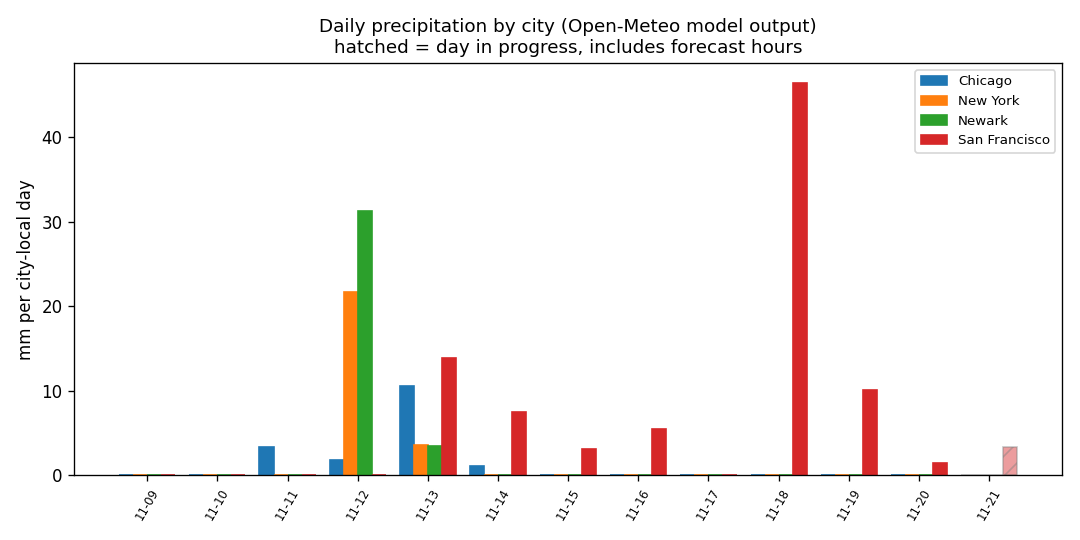
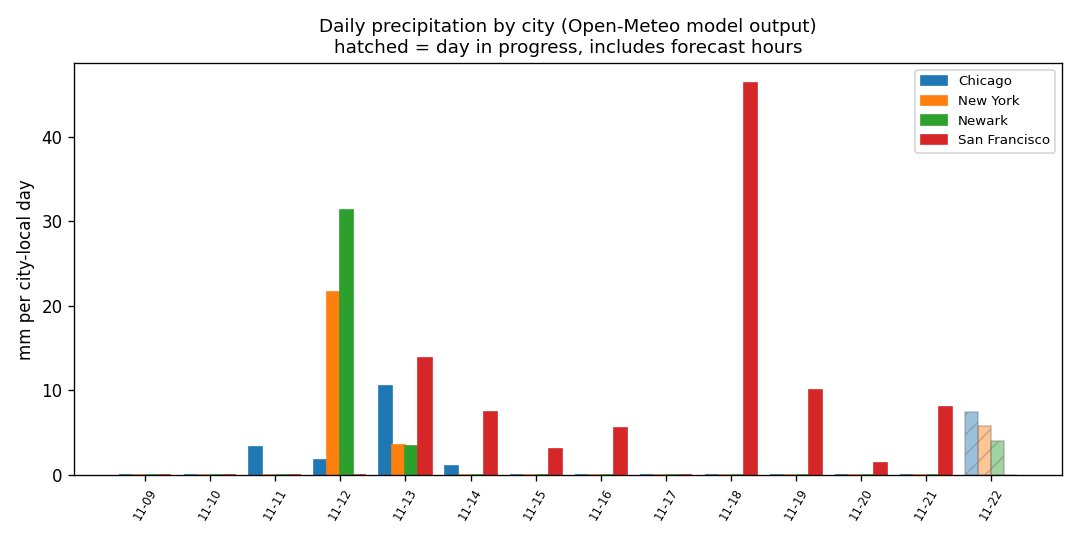
Tolerate per-city fetch failures (fetch_all) and report them as quality issues; refresh data

diff --git a/scripts/daily_update.py b/scripts/daily_update.py
@@ -17,11 +17,11 @@ REPORTS = ROOT / "reports"
 
 
 def main() -> int:
-    rows = []
+    rows, fetch_failures = ingest.fetch_all(config.CITIES)
     for city in config.CITIES:
-        city_rows = ingest.fetch_city_hourly(city)
-        print(f"{city.name}: fetched {len(city_rows)} hourly rows")
-        rows.extend(city_rows)
+        n = sum(1 for r in rows if r["city"] == city.name)
+        if n:
+            print(f"{city.name}: fetched {n} hourly rows")
 
     (ROOT / "data").mkdir(exist_ok=True)
     REPORTS.mkdir(exist_ok=True)
@@ -34,7 +34,7 @@ def main() -> int:
     # Freshness is evaluated right after this run's own ingest, so the overnight
     # gap between rounds (3pm to 7am) cannot trip it: each run loads new hours stamped
     # now. It fails only if a run loads nothing new for over 6h (a stalled upstream).
-    issues = (quality.run_all(con) + quality.check_all_cities_present(con)
+    issues = (fetch_failures + quality.run_all(con) + quality.check_all_cities_present(con)
               + quality.check_fresh_fetch(con))
     for city, hr in sorted(quality.latest_available_hour(con).items()):
         print(f"latest available hour {city}: {hr}")

diff --git a/tests/test_ingest.py b/tests/test_ingest.py
@@ -101,3 +101,21 @@ def test_fetch_gives_up_after_max_attempts():
     with pytest.raises(ingest.IngestError):
         ingest.fetch_city_hourly(NEWARK, session=session, max_attempts=3, backoff_s=0)
     assert session.n == 3
+
+
+def test_fetch_all_keeps_good_cities_and_reports_failures():
+    from types import SimpleNamespace as NS
+    from weatherwh.ingest import IngestError, fetch_all
+    cities = [NS(name="A"), NS(name="B"), NS(name="C")]
+    def fake(city):
+        if city.name == "B":
+            raise IngestError("Open-Meteo unreachable for B after 3 attempts: timeout")
+        return [{"city": city.name, "hour": 1}]
+    rows, failures = fetch_all(cities, fetch=fake)
+    assert [r["city"] for r in rows] == ["A", "C"]
+    assert len(failures) == 1 and failures[0].startswith("fetch failed for B")
+    assert fetch_all([], fetch=fake) == ([], [])
+    # non-ingest bugs are not swallowed
+    import pytest
+    with pytest.raises(KeyError):
+        fetch_all(cities, fetch=lambda c: (_ for _ in ()).throw(KeyError("bug")))

diff --git a/src/weatherwh/ingest.py b/src/weatherwh/ingest.py
@@ -67,3 +67,20 @@ def flatten_payload(city: City, payload: dict, ingested_at: dt.datetime) -> list
             row[var] = values[i] if i < len(values) else None
         rows.append(row)
     return rows
+
+
+def fetch_all(cities, fetch=None) -> tuple[list[dict], list[str]]:
+    """Fetch every city, tolerating per-city failures. Returns (rows, failures):
+    one unreachable city must not discard the others' fresh data. Failures are
+    returned as messages so the caller can fail the quality gate; the failed
+    city logs no successful fetch, so source-fetch freshness keeps flagging it
+    once its last good fetch is too old."""
+    fetch = fetch or fetch_city_hourly
+    rows: list[dict] = []
+    failures: list[str] = []
+    for city in cities:
+        try:
+            rows.extend(fetch(city))
+        except IngestError as exc:
+            failures.append(f"fetch failed for {city.name}: {exc}")
+    return rows, failures

diff --git a/reports/dashboard.md b/reports/dashboard.md
@@ -1,13 +1,17 @@
 # Weather Warehouse - daily dashboard
 
-Generated 2026-11-21 20:04 UTC.
+Generated 2026-11-22 12:07 UTC.
 
 | city | day | avg_temp_c | min_temp_c | max_temp_c | total_precip_mm | max_wind_kmh | hours_observed |
 | --- | --- | --- | --- | --- | --- | --- | --- |
-| Chicago | 2026-11-21 | 12.53 | 7.2 | 20.2 | 0.0 | 16.0 | 24 |
-| New York | 2026-11-21 | 12.28 | 8.1 | 19.0 | 0.0 | 12.1 | 24 |
-| Newark | 2026-11-21 | 11.77 | 6.7 | 18.8 | 0.0 | 12.8 | 24 |
-| San Francisco | 2026-11-21 | 9.06 | 6.4 | 11.4 | 3.3 | 19.1 | 24 |
+| Chicago | 2026-11-22 | 8.62 | 1.0 | 13.0 | 7.5 | 22.4 | 24 |
+| New York | 2026-11-22 | 13.37 | 12.2 | 15.6 | 5.8 | 16.1 | 24 |
+| Newark | 2026-11-22 | 13.09 | 11.3 | 15.6 | 4.0 | 12.8 | 24 |
+| San Francisco | 2026-11-22 | 10.12 | 8.0 | 12.3 | 0.0 | 9.9 | 24 |
+| Chicago | 2026-11-21 | 12.69 | 7.2 | 20.1 | 0.0 | 15.8 | 24 |
+| New York | 2026-11-21 | 12.79 | 8.1 | 19.0 | 0.0 | 10.5 | 24 |
+| Newark | 2026-11-21 | 12.23 | 6.7 | 19.2 | 0.0 | 13.0 | 24 |
+| San Francisco | 2026-11-21 | 9.53 | 6.4 | 12.1 | 8.0 | 14.3 | 24 |
 | Chicago | 2026-11-20 | 11.73 | 5.5 | 19.0 | 0.0 | 17.1 | 24 |
 | New York | 2026-11-20 | 13.37 | 7.3 | 21.3 | 0.0 | 9.5 | 24 |
 | Newark | 2026-11-20 | 12.92 | 5.6 | 21.7 | 0.0 | 11.2 | 24 |
@@ -30,10 +34,6 @@ Generated 2026-11-21 20:04 UTC.
 | San Francisco | 2026-11-16 | 11.94 | 9.1 | 14.8 | 5.5 | 9.2 | 24 |
 | Chicago | 2026-11-15 | 3.52 | -0.7 | 9.2 | 0.0 | 9.2 | 24 |
 | New York | 2026-11-15 | 6.52 | 3.6 | 10.8 | 0.0 | 19.9 | 24 |
-| Newark | 2026-11-15 | 6.48 | 3.8 | 10.4 | 0.0 | 22.1 | 24 |
-| San Francisco | 2026-11-15 | 12.95 | 11.3 | 15.1 | 3.1 | 14.4 | 24 |
-| Chicago | 2026-11-14 | 2.32 | -0.7 | 6.9 | 1.1 | 16.1 | 24 |
-| New York | 2026-11-14 | 4.66 | 3.0 | 6.8 | 0.0 | 20.5 | 24 |
 
 ## Heat / cold exposure (current window)
 
@@ -52,8 +52,9 @@ Completed days only: daily average temperature vs the city's other days (|z| >= 
 
 | city | day | avg temp C | z-score |
 | --- | --- | ---: | ---: |
-| Chicago | 2026-11-20 | 11.73 | 2.02 |
-| New York | 2026-11-14 | 4.66 | -2.0 |
+| New York | 2026-11-14 | 4.66 | -2.09 |
+| Newark | 2026-11-14 | 4.75 | -2.06 |
+| Newark | 2026-11-13 | 4.81 | -2.03 |
 
 ## Precipitation
 
@@ -63,19 +64,19 @@ Model output in mm over the window; the current day includes forecast hours.
 
 | city | total mm | wet days (>=1 mm) |
 | --- | ---: | ---: |
-| San Francisco | 91.1 | 8 |
-| Newark | 34.7 | 2 |
-| New York | 25.3 | 2 |
-| Chicago | 16.7 | 4 |
+| San Francisco | 95.8 | 8 |
+| Newark | 38.7 | 3 |
+| New York | 31.1 | 3 |
+| Chicago | 24.2 | 5 |
 
-## City leaders, 2026-11-20 (latest day complete in every city)
+## City leaders, 2026-11-21 (latest day complete in every city)
 
 Model output, not station readings.
 
-- Warmest high: Newark (21.7 C)
-- Coldest low: Chicago (5.5 C)
-- Wettest: San Francisco (1.4 mm)
-- Windiest: Chicago (17.1 km/h)
+- Warmest high: Chicago (20.1 C)
+- Coldest low: San Francisco (6.4 C)
+- Wettest: San Francisco (8.0 mm)
+- Windiest: Chicago (15.8 km/h)
 
 ![Daily temperature range by city](temp_range_by_city.png)
 
